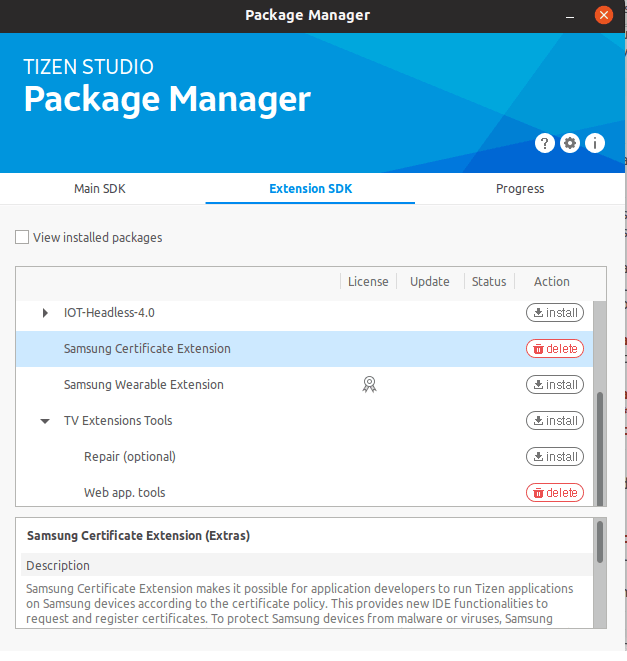
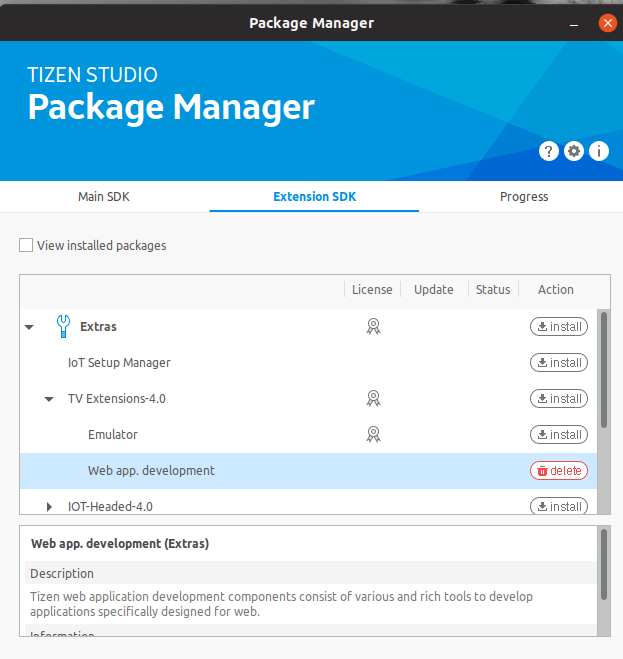
Up README.md

diff --git a/README.md b/README.md
@@ -71,7 +71,7 @@ Installation guide **Tizen Studio** (tested on Linux Ubuntu 18.04 and windows 10
 
 ## Installation Tizen and Java SDK
 
-* I used the **Tizen Studio 2.3 with IDE installer** (Any version above that must work well), download the 32/64 bit according to yours CPU architecture, on windows it is a .exe file around 480MB just install it like any other .exe file, on Linux the file is a executable binary 480Mb size, to run it first give the file permission to execute, properties >  permission > Execute... mark, then just drag the file to a terminal window and click enter, **On linux it may ask you to use apt-get to install missing dependencies below are the one asked by **Tizen Studio** 2.3**
+* I used the **Tizen Studio 2.4 with IDE installer** (Any version above that must work well), download the 32/64 bit according to yours CPU architecture, on windows it is a .exe file around 480MB just install it like any other .exe file, on Linux the file is a executable binary 480Mb size, to run it first give the file permission to execute, properties >  permission > Execute... mark, then just drag the file to a terminal window and click enter, **On Linux it may ask you to use apt-get to install missing dependencies below are the one asked by **Tizen Studio 2.4**
 #
 
 	sudo apt-get install libwebkitgtk-1.0-0 rpm2cpio expect python2.7 ruby
@@ -91,15 +91,16 @@ Installation guide **Tizen Studio** (tested on Linux Ubuntu 18.04 and windows 10
 
 ## Tizen Package Manager(Installing the tools)
 
-* Open **Tizen Package Manager** (on linux it may request you to use apt-get to install missing dependencies)
-* Main tab **(Main SDK)** Install **4.0 TV**(or werever X.X TV version there is) and **Tizen SDK tools**,  **(on linux it may request you to use apt-get to install missing dependencies)**
-* Second tab **(Extension SDK)** Install **Samsung Certificate Extension** and under **TV Extension Tools** install **Web app. Tools** (on Linux it may request you to use apt-get to install missing dependencies)
+* Open **Tizen Package Manager** to start install the bellow, some may already be installed by default
+* Main tab **(Main SDK)** Install **4.0 TV**(or wherever X.X TV version there is) and **Tizen SDK tools**,  **(on linux it may request you to use apt-get to install missing dependencies)**
+* Second tab **(Extension SDK)** under **TV Extensions-4.0** (or wherever X.X TV version there is) install **Web app. Development**, install **Samsung Certificate Extension** and under **TV Extension Tools** install **Web app. Tools** (on Linux it may request you to use apt-get to install missing dependencies)
 * After everything finish installing close the package manager it will ask if you wanna to open the **Tizen Studio** YES click open, if on windows it may request to add firewall permission for Tizen give.
 
 ### Bellow imgs showing the installed packages (the one with a delete option are installed)
 ![SDK_installation_1](https://bhb27.github.io/smarttv-twitch/screenshot/install/sdk_1.png)
 ![SDK_installation_2](https://bhb27.github.io/smarttv-twitch/screenshot/install/sdk_2.png)
-![SDK_installation_2](https://bhb27.github.io/smarttv-twitch/screenshot/install/sdk_3.png)
+![SDK_installation_3](https://bhb27.github.io/smarttv-twitch/screenshot/install/sdk_3.png)
+![SDK_installation_4](https://bhb27.github.io/smarttv-twitch/screenshot/install/sdk_4.png)
 
 ## Setting up the build environment:
 
